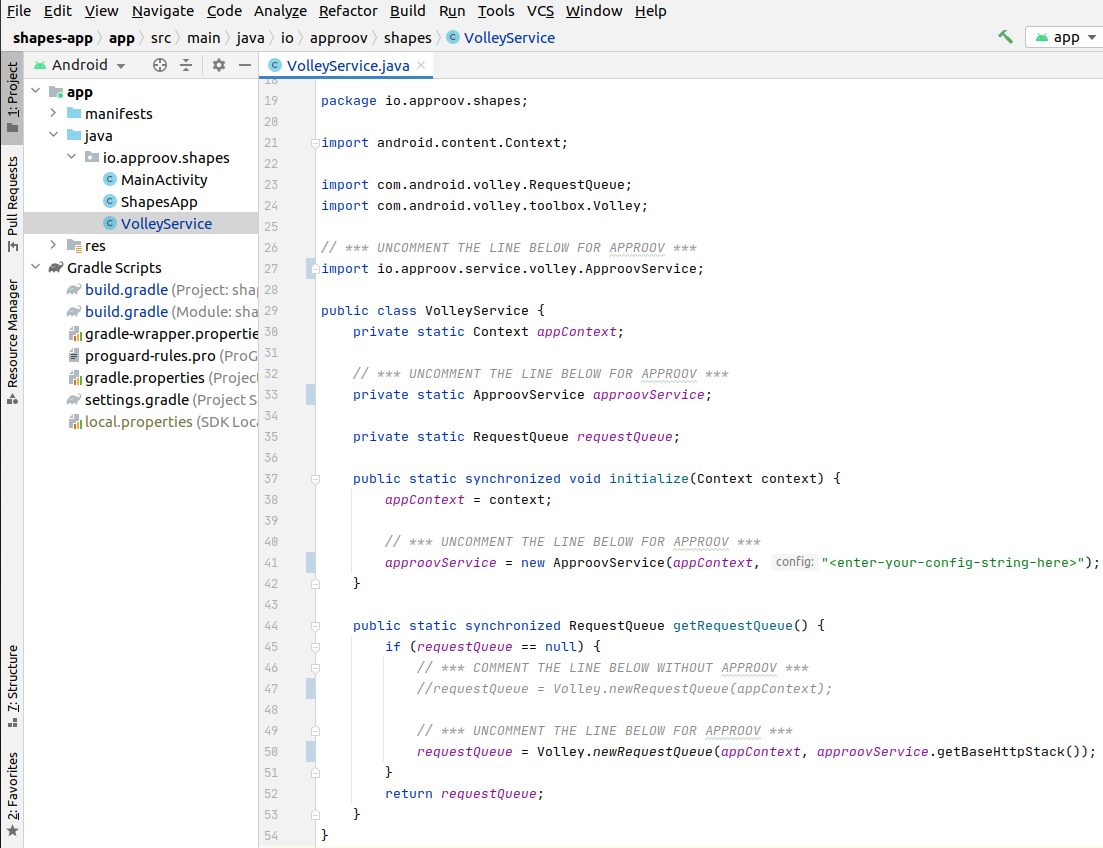
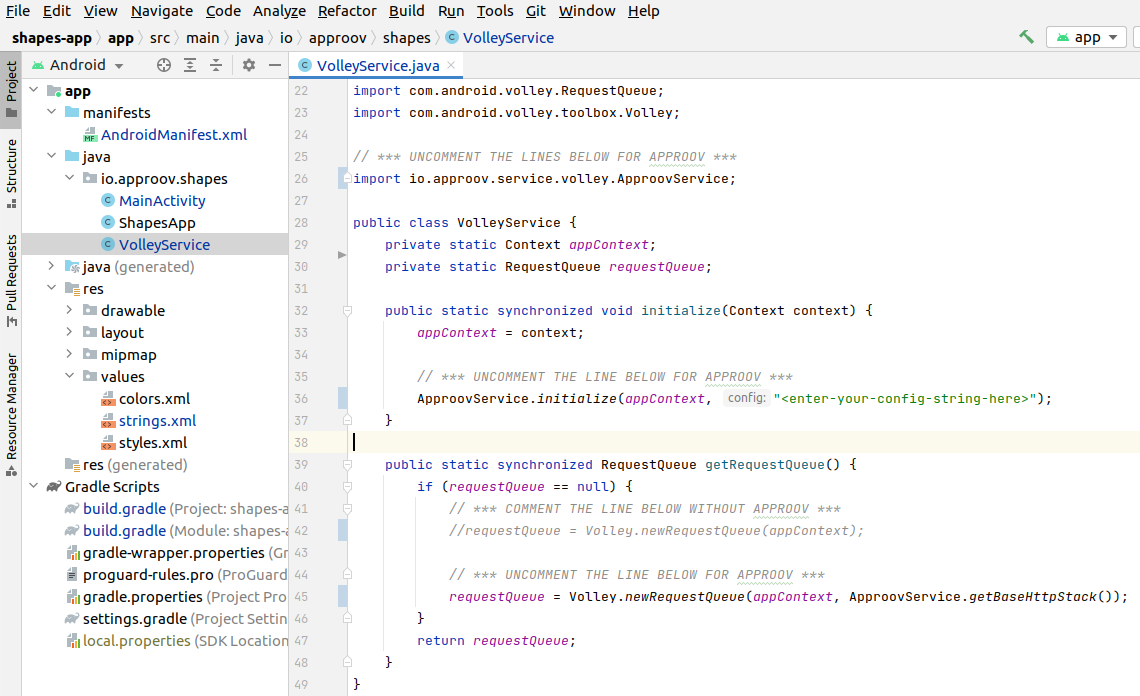
Move to static interface and add reference doc

diff --git a/shapes-app/app/src/main/java/io/approov/shapes/VolleyService.java b/shapes-app/app/src/main/java/io/approov/shapes/VolleyService.java
@@ -27,17 +27,13 @@ import com.android.volley.toolbox.Volley;
 
 public class VolleyService {
     private static Context appContext;
-
-    // *** UNCOMMENT THE LINE BELOW FOR APPROOV ***
-    //private static ApproovService approovService;
-
     private static RequestQueue requestQueue;
 
     public static synchronized void initialize(Context context) {
         appContext = context;
 
         // *** UNCOMMENT THE LINE BELOW FOR APPROOV ***
-        //approovService = new ApproovService(appContext, "<enter-your-config-string-here>");
+        //ApproovService.initialize(appContext, "<enter-your-config-string-here>");
     }
 
     public static synchronized RequestQueue getRequestQueue() {
@@ -46,7 +42,7 @@ public class VolleyService {
             requestQueue = Volley.newRequestQueue(appContext);
 
             // *** UNCOMMENT THE LINE BELOW FOR APPROOV ***
-            //requestQueue = Volley.newRequestQueue(appContext, approovService.getBaseHttpStack());
+            //requestQueue = Volley.newRequestQueue(appContext, ApproovService.getBaseHttpStack());
         }
         return requestQueue;
     }

diff --git a/shapes-app/app/src/main/java/io/approov/shapes/MainActivity.java b/shapes-app/app/src/main/java/io/approov/shapes/MainActivity.java
@@ -151,7 +151,7 @@ public class MainActivity extends Activity {
                         Map<String, String> headers = new HashMap<>();
                         headers.put("Api-Key", getResources().getString(R.string.shapes_api_key));
 
-                        // *** UNCOMMENT THE LINE BELOW FOR APPROOV USING SECURE STRINGS ***
+                        // *** UNCOMMENT THE LINE BELOW FOR APPROOV USING SECRET PROTECTION ***
                         //ApproovService.substituteHeader(headers, "Api-Key", null);
 
                         return headers;

diff --git a/REFERENCE.md b/REFERENCE.md
@@ -1,0 +1,145 @@
+# Reference
+This provides a reference for all of the static methods defined on `ApproovService`. These are available if you import:
+
+```Java
+import io.approov.service.volley.ApproovService;
+```
+
+Various methods may throw an `ApproovException` if there is a problem. The method `getMessage()` provides a descriptive message.
+
+If a method throws an `ApproovNetworkException` (a subclass of `ApproovException`) then this indicates the problem was caused by a networking issue, and a user initiated retry should be allowed.
+
+If a method throws an `ApproovRejectionException` (a subclass of `ApproovException`) the this indicates the problem was that the app failed attestation. An additional method `getARC()` provides the [Attestation Response Code](https://approov.io/docs/latest/approov-usage-documentation/#attestation-response-code), which could be provided to the user for communication with your app support to determine the reason for failure, without this being revealed to the end user. The method `getRejectionReasons()` provides the [Rejection Reasons](https://approov.io/docs/latest/approov-usage-documentation/#rejection-reasons) if the feature is enabled, providing a comma separated list of reasons why the app attestation was rejected.
+
+## Initialize
+Initializes the Approov SDK and thus enables the Approov features. The `config` will have been provided in the initial onboarding or email or can be [obtained](https://approov.io/docs/latest/approov-usage-documentation/#getting-the-initial-sdk-configuration) using the approov CLI. This will generate an error if a second attempt is made at initialization with a different `config`.
+
+```Java
+void initialize(Context context, String config)
+```
+
+The [application context](https://developer.android.com/reference/android/content/Context#getApplicationContext()) must be provided using the `context` parameter.
+
+## GetBaseHttpStack
+
+Provides the Approov enabled BaseHttpStack to be used for volley. This adds Approov tokens and pinning. Returns `null` if Approov has not been initialized.
+
+```Java
+BaseHttpStack getBaseHttpStack()
+```
+
+## SetProceedOnNetworkFail
+If the provided `proceed` value is `true` then this indicates that the network interceptor should proceed anyway if it is not possible to obtain an Approov token due to a networking failure. If this is called then the backend API can receive calls without the expected Approov token header being added, or without header/query parameter substitutions being made. This should only ever be used if there is some particular reason, perhaps due to local network conditions, that you believe that traffic to the Approov cloud service will be particularly problematic.
+
+```Java
+void setProceedOnNetworkFail(boolean proceed)
+```
+
+Note that this should be used with *CAUTION* because it may allow a connection to be established before any dynamic pins have been received via Approov, thus potentially opening the channel to a MitM.
+
+## SubstituteHeader
+Potentially substitutes a header value in the `headers` map supplied. This determines if the given `substitutionHeader` is present and, if so, looks at the present value and determines if it corresponds to a key of a secure string. If so then the header value is remapped to the secure string value. A `requiredPrefix` may be specified to deal with cases such as the use of "`Bearer `" prefixed before values in an authorization header. If the attestation fails for any reason then an `ApproovException` is thrown. Note that this function should only be called by a request `getHeaders` function that provides the ephemeral header values, as the output should not be cached. Note also that this method does not exclude substitutions made in any added excluded URLs.
+
+```Java
+void substituteHeader(Map<String, String> headers, String substitutionHeader, String requiredPrefix) throws ApproovException
+```
+
+## SubstituteQueryParameter
+Potentially substitutes a parameter value in the `params` map supplied. This determines if the given substitution `queryParam` is present and, if so, looks at the present value and determines if it corresponds to a key of a secure string. If so then the parameter value is remapped to the secure string value. If the attestation fails for any reason then an `ApproovException` is thrown. Note that this function should only be called by a request `getParams` function that provides the ephemeral params values, as the output should not be cached. Note also that this method does not exclude substitutions made in any added excluded URLs.
+
+```Java
+void substituteQueryParam(Map<String, String> params, String queryParam) throws ApproovException
+```
+
+## SubstituteQueryParamInURLString
+Substitutes the given `queryParameter` in the `url`. If no substitution is made then the original `url` is returned, otherwise a new one is constructed with the revised query parameter value. If there is a problem then `ApproovException` is thrown. S Note that this method does not exclude substitutions made in any added excluded URLs.
+
+```Java
+String substituteQueryParamInURLString(String url, String queryParameter) throws ApproovException
+```
+
+## AddExclusionURLRegex
+Adds an exclusion URL [regular expression](https://regex101.com/) via the `urlRegex` parameter. If a URL for a request matches this regular expression then it will not be subject to any Approov protection.
+
+```Java
+void addExclusionURLRegex(String urlRegex)
+```
+
+Note that this facility must be used with *EXTREME CAUTION* due to the impact of dynamic pinning. Pinning may be applied to all domains added using Approov, and updates to the pins are received when an Approov fetch is performed. If you exclude some URLs on domains that are protected with Approov, then these will be protected with Approov pins but without a path to update the pins until a URL is used that is not excluded. Thus you are responsible for ensuring that there is always a possibility of calling a non-excluded URL, or you should make an explicit call to fetchToken if there are persistent pinning failures. Conversely, use of those option may allow a connection to be established before any dynamic pins have been received via Approov, thus potentially opening the channel to a MitM.
+
+## RemoveExclusionURLRegex
+Removes an exclusion URL regular expression (`urlRegex`) previously added using `addExclusionURLRegex`.
+
+```Java
+void removeExclusionURLRegex(String urlRegex)
+```
+
+## Prefetch
+Performs a fetch to lower the effective latency of a subsequent token fetch or secure string fetch by starting the operation earlier so the subsequent fetch may be able to use cached data. This initiates the prefetch in a background thread.
+
+```Java
+void prefetch();
+```
+
+## Precheck
+Performs a precheck to determine if the app will pass attestation. This requires [secure strings](https://approov.io/docs/latest/approov-usage-documentation/#secure-strings) to be enabled for the account, although no strings need to be set up. 
+
+```Java
+void precheck() throws ApproovException;
+```
+
+This throws `ApproovException` if the precheck failed. This will likely require network access so may take some time to complete, and should not be called from the UI thread.
+
+## GetDeviceID
+Gets the [device ID](https://approov.io/docs/latest/approov-usage-documentation/#extracting-the-device-id) used by Approov to identify the particular device that the SDK is running on. Note that different Approov apps on the same device will return a different ID. Moreover, the ID may be changed by an uninstall and reinstall of the app.
+
+```Java
+String getDeviceID() throws ApproovException
+```
+
+This throws `ApproovException` if the there was a problem obtaining the device ID.
+
+## SetDataHashInToken
+Directly sets the [token binding](https://approov.io/docs/latest/approov-usage-documentation/#token-binding) hash to be included in subsequently fetched Approov tokens. If the hash is different from any previously set value then this will cause the next token fetch operation to fetch a new token with the correct payload data hash. The hash appears in the `pay` claim of the Approov token as a base64 encoded string of the SHA256 hash of the data. Note that the data is hashed locally and never sent to the Approov cloud service. This is an alternative to using `setBindingHeader` and you should not use both methods at the same time.
+
+```Java
+void setDataHashInToken(String data) throws ApproovException
+```
+
+This throws `ApproovException` if the there was a problem changing the data hash.
+
+## FetchToken
+Performs an Approov token fetch for the given `url`. This should be used in situations where it is not possible to use the networking interception to add the token. Note that the returned token should NEVER be cached by your app, you should call this function when it is needed.
+
+```Java
+String fetchToken(String url) throws ApproovException
+```
+
+This throws `ApproovException` if the there was a problem obtaining an Approov token. This may require network access so may take some time to complete, and should not be called from the UI thread.
+
+## GetMessageSignature
+Gets the [message signature](https://approov.io/docs/latest/approov-usage-documentation/#message-signing) for the given `message`. This is returned as a base64 encoded signature. This feature uses an account specific message signing key that is transmitted to the SDK after a successful fetch if the facility is enabled for the account. Note that if the attestation failed then the signing key provided is actually random so that the signature will be incorrect. An Approov token should always be included in the message being signed and sent alongside this signature to prevent replay attacks.
+
+```Java
+String getMessageSignature(String message) throws ApproovException
+```
+
+This throws `ApproovException` if the there was a problem obtaining a signature.
+
+## FetchSecureString
+Fetches a [secure string](https://approov.io/docs/latest/approov-usage-documentation/#secure-strings) with the given `key`, when `newDef` is `null`. If `newDef` is not `null` then a secure string for the particular app instance may be defined. In this case the new value is returned as the secure string. Use of an empty string for `newDef` removes the string entry. Note that the returned string should NEVER be cached by your app, you should call this function when it is needed.
+
+```Java
+String fetchSecureString(String key, String newDef) throws ApproovException
+```
+
+This throws `ApproovException` if the there was a problem obtaining the secure string. This may require network access so may take some time to complete, and should not be called from the UI thread.
+
+## FetchCustomJWT
+Fetches a [custom JWT](https://approov.io/docs/latest/approov-usage-documentation/#custom-jwts) with the given marshaled JSON `payload`.
+
+```Java
+String fetchCustomJWT(String payload) throws ApproovException
+```
+
+This throws `ApproovException` if the there was a problem obtaining the custom JWT. This may require network access so may take some time to complete, and should not be called from the UI thread.

diff --git a/SHAPES-EXAMPLE.md b/SHAPES-EXAMPLE.md
@@ -53,7 +53,7 @@ The `approov-service-volley` dependency needs to be added as follows to the `app
 Note that in this case the dependency has been added with the tag `main-SNAPSHOT`. However, for your projects we recommend you add a dependency to a specific version:
 
 ```
-implementation 'com.github.approov:approov-service-volley:3.0.3'
+implementation 'com.github.approov:approov-service-volley:3.0.4'
 ```
 
 Make sure you do a Gradle sync (by selecting `Sync Now` in the banner at the top of the modified `.gradle` file) after making these changes.
@@ -78,7 +78,7 @@ Uncomment the various lines needed to use Approov in `io/approov/shapes/VolleySe
 
 The `VolleyService` provides a singleton `RequestQueue` that is created on demand. This is a typical pattern for using `Volley`. The changes shown here cause the request queue to be constructed with a specialized `BaseHttpStack` that automatically adds Approov tokens to the requests and pins the connections to ensure that no Man-in-the-Middle can eavesdrop on any communication being made.
 
-The Approov SDK needs a configuration string to identify the account associated with the app. It will have been provided in the Approov onboarding email (it will be something like `#123456#K/XPlLtfcwnWkzv99Wj5VmAxo4CrU267J1KlQyoz8Qo=`). Copy this into `io/approov/shapes/VolleyService.java:41`, replacing the text `<enter-your-config-string-here>`.
+The Approov SDK needs a configuration string to identify the account associated with the app. It will have been provided in the Approov onboarding email (it will be something like `#123456#K/XPlLtfcwnWkzv99Wj5VmAxo4CrU267J1KlQyoz8Qo=`). Copy this into `io/approov/shapes/VolleyService.java`, replacing the text `<enter-your-config-string-here>`.
 
 You should also edit the `res/values/strings.xml` file to change to using the shapes `https://shapes.approov.io/v3/shapes/` endpoint that checks Approov tokens (as well as the API key built into the app):
 
@@ -114,14 +114,16 @@ This means that the app is getting a validly signed Approov token to present to 
 If you still don't get a valid shape then there are some things you can try. Remember this may be because the device you are using has some characteristics that cause rejection for the currently set [Security Policy](https://approov.io/docs/latest/approov-usage-documentation/#security-policies) on your account:
 
 * Ensure that the version of the app you are running is exactly the one you registered with Approov. Also, if you are running the app from a debugger then valid tokens are not issued.
-* Look at the [`logcat`](https://developer.android.com/studio/command-line/logcat) output from the device. Information about any Approov token fetched or an error is output at the `INFO` level, e.g. `2020-02-10 13:55:55.774 10442-10705/io.approov.shapes I/ApproovInterceptor: Approov Token for shapes.approov.io: {"did":"+uPpGUPeq8bOaPuh+apuGg==","exp":1581342999,"ip":"1.2.3.4","sip":"R-H_vE"}`. You can easily [check](https://approov.io/docs/latest/approov-usage-documentation/#loggable-tokens) the validity and find out any reason for a failure.
+* Look at the [`logcat`](https://developer.android.com/studio/command-line/logcat) output from the device. Information about any Approov token fetched or an error is output at the `DEBUG` level. You can easily [check](https://approov.io/docs/latest/approov-usage-documentation/#loggable-tokens) the validity and find out any reason for a failure.
 * Consider using an [Annotation Policy](https://approov.io/docs/latest/approov-usage-documentation/#annotation-policies) during initial development to directly see why the device is not being issued with a valid token.
 * Use `approov metrics` to see [Live Metrics](https://approov.io/docs/latest/approov-usage-documentation/#live-metrics) of the cause of failure.
 * You can use a debugger or emulator and get valid Approov tokens on a specific device by ensuring it [always passes](https://approov.io/docs/latest/approov-usage-documentation/#adding-a-device-security-policy). As a shortcut, when you are first setting up, you can add a [device security policy](https://approov.io/docs/latest/approov-usage-documentation/#adding-a-device-security-policy) using the `latest` shortcut as discussed so that the `device ID` doesn't need to be extracted from the logs or an Approov token.
 
 ## SHAPES APP WITH SECRET PROTECTION
 
-This section provides an illustration of an alternative option for Approov protection if you are not able to modify the backend to add an Approov Token check. Firstly, revert any previous change to `res/values/strings.xml` to using `https://shapes.approov.io/v1/shapes/` that simply checks for an API key. The `shapes_api_key` should also be changed to `shapes_api_key_placeholder`, removing the actual API key out of the code:
+This section provides an illustration of an alternative option for Approov protection if you are not able to modify the backend to add an Approov Token check. 
+
+Firstly, revert any previous change to `res/values/strings.xml` to using `https://shapes.approov.io/v1/shapes/` that simply checks for an API key. The `shapes_api_key` should also be changed to `shapes_api_key_placeholder`, removing the actual API key out of the code:
 
 ![Shapes V1 Endpoint](readme-images/shapes-v1-endpoint.png)
 

diff --git a/SECRET-PROTECTION.md b/SECRET-PROTECTION.md
@@ -73,7 +73,7 @@ This will analyze and modify `params` to replace the `<secret-placeholder>` with
 Note that you cannot use `getParams` for `GET` requests. To support this an alternative method for query parameter substitution is provided, to allow the original URL String to be modified. For instance, if you wish to substitute the parameter `<secret-param>` then you must call:
 
 ```Java
-url = approovService..substituteQueryParamInURLString(url, "<secret-param>");
+url = approovService.substituteQueryParamInURLString(url, "<secret-param>");
 ```
 
 If no substitution is made then the return value is the same as the input, otherwise a new URL is created with the substituted parameter value. The call should transform any instance of a URL such as `https://mydomain.com/endpoint?<secret-param>=<secret-placeholder>` into `https://mydomain.com/endpoint?<secret-param>=<secret-value>`, if the app passes attestation and there is a secure string with the name `<secret-placeholder>`. You will need to catch and deal with any `ApproovException` thrown by this call. Note that this should only ever be applied to a URL with a host domain that has been added to Approov, so that either pinning or managed trust roots protection is being applied.
@@ -93,7 +93,7 @@ Note, on Windows you need to substitute \ for / in the above command.
 ## HANDLING REJECTIONS
 If the app is not recognized as being valid by Approov then an `ApproovRejectionException` is thrown on the request and the API call is not completed. The secret value will never be communicated to the app in this case.
 
-Your app should specifically catch this exception and provide some feedback to the user to explain why the app is not working. The `ApproovRejectionException` has a `geARC()` method which provides an [Attestation Response Code](https://approov.io/docs/latest/approov-usage-documentation/#attestation-response-code) which can provide more information about the status of the device, without revealing any details to the end user.
+Your app should specifically catch this exception and provide some feedback to the user to explain why the app is not working. The `ApproovRejectionException` has a `getARC()` method which provides an [Attestation Response Code](https://approov.io/docs/latest/approov-usage-documentation/#attestation-response-code) which can provide more information about the status of the device, without revealing any details to the end user.
 
 If you wish to provide more direct feedback then enable the [Rejection Reasons](https://approov.io/docs/latest/approov-usage-documentation/#rejection-reasons) feature:
 
@@ -108,8 +108,6 @@ You will then be able to use `getRejectionReasons()` on an `ApproovRejectionExce
 ## FURTHER OPTIONS
 
 See [Getting Started With Approov](https://approov.io/docs/latest/approov-usage-documentation/#getting-started-with-approov) for information about additional Approov features you may wish to try.
-
-The quickstart also provides the following additional methods:
 
 ### Header Prefixes
 In some cases the value to be substituted on a header may be prefixed by some fixed string. A common case is the presence of `Bearer` included in an authorization header to indicate the use of a bearer token. In this case you can specify a prefix as follows, assuming `headers` holds the current header map:
@@ -138,7 +136,7 @@ String newDef;
 String secret;
 // define key and newDef here
 try {
-    secret = YourApp.approovService.fetchSecureString(key, newDef);
+    secret = ApproovService.fetchSecureString(key, newDef);
 }
 catch(ApproovRejectionException e) {
     // failure due to the attestation being rejected, e.getARC() and e.getRejectionReasons() may be used to present information to the user
@@ -161,7 +159,7 @@ This method is also useful for providing runtime secrets protection when the val
 If you wish to reduce the latency associated with substituting the first secret, then make this call immediately after creating `ApproovService`:
 
 ```Java
-YourApp.approovService.prefetch()
+ApproovService.prefetch();
 ```
 
 This initiates the process of fetching the required information as a background task, so that it is available immediately when subsequently needed. Note the information will automatically expire after approximately 5 minutes.
@@ -177,7 +175,7 @@ import io.approov.service.volley.ApproovRejectionException;
 ...
 
 try {
-    YourApp.approovService.precheck();
+    ApproovService.precheck();
 }
 catch(ApproovRejectionException e) {
     // failure due to the attestation being rejected, e.getARC() and e.getRejectionReasons() may be used to present information to the user
@@ -187,7 +185,7 @@ catch(ApproovNetworkException e) {
     // failure due to a potentially temporary networking issue, allow for a user initiated retry
 }
 catch(ApproovException e) {
-   // a more permanent error, see e.message
+   // a more permanent error, see e.getMessage()
 }
 // app has passed the precheck
 ```

diff --git a/README.md b/README.md
@@ -24,7 +24,7 @@ Secondly, add the dependency in your app's `build.gradle`:
 
 ```
 dependencies {
-	 implementation 'com.github.approov:approov-service-volley:3.0.3'
+	 implementation 'com.github.approov:approov-service-volley:3.0.4'
 }
 ```
 Make sure you do a Gradle sync (by selecting `Sync Now` in the banner at the top of the modified `.gradle` file) after making these changes.
@@ -41,7 +41,7 @@ The following app permissions need to be available in the manifest to use Approo
 
 Note that the minimum SDK version you can use with the Approov package is 21 (Android 5.0). 
 
-Please [read this](https://approov.io/docs/latest/approov-usage-documentation/#targetting-android-11-and-above) section of the reference documentation if targetting Android 11 (API level 30) or above.
+Please [read this](https://approov.io/docs/latest/approov-usage-documentation/#targeting-android-11-and-above) section of the reference documentation if targeting Android 11 (API level 30) or above.
 
 ## INITIALIZING APPROOV SERVICE
 In order to use the `ApproovService` you should create a `VolleyService` class:
@@ -51,17 +51,16 @@ import io.approov.service.volley.ApproovService;
 
 public class VolleyService {
     private static Context appContext;
-    private static ApproovService approovService;
     private static RequestQueue requestQueue;
 
     public static synchronized void initialize(Context context) {
         appContext = context;
-        approovService = new ApproovService(appContext, "<enter-your-config-string-here>")
+        ApproovService.initialize(appContext, "<enter-your-config-string-here>")
     }
 
     public static synchronized RequestQueue getRequestQueue() {
         if (requestQueue == null) {
-            requestQueue = Volley.newRequestQueue(appContext, approovService.getBaseHttpStack());
+            requestQueue = Volley.newRequestQueue(appContext, ApproovService.getBaseHttpStack());
         }
         return requestQueue;
     }
@@ -74,8 +73,6 @@ You must initialize this when your app is created, usually in the `onCreate` met
 
 ```Java
 public class YourApp extends Application {
-    public static ApproovService approovService;
-
     @Override
     public void onCreate() {
         super.onCreate();
@@ -109,3 +106,5 @@ To actually protect your APIs there are some further steps. Approov provides two
 * [SECRET PROTECTION](https://github.com/approov/quickstart-android-java-volley/blob/master/SECRET-PROTECTION.md): If you do not control the backend API(s) being protected, and are therefore unable to modify it to check Approov tokens, you can use this approach instead. It allows app secrets, and API keys, to be protected so that they no longer need to be included in the built code and are only made available to passing apps at runtime.
 
 Note that it is possible to use both approaches side-by-side in the same app, in case your app uses a mixture of 1st and 3rd party APIs.
+
+See [REFERENCE](https://github.com/approov/quickstart-android-java-volley/blob/master/REFERENCE.md) for a complete list of all of the `ApproovService` methods.

diff --git a/TOKEN-PROTECTION.md b/TOKEN-PROTECTION.md
@@ -29,13 +29,11 @@ Note, on Windows you need to substitute \ for / in the above command.
 
 See [Getting Started With Approov](https://approov.io/docs/latest/approov-usage-documentation/#getting-started-with-approov) for information about additional Approov features you may wish to try.
 
-The quickstart also provides the following additional methods:
-
 ### Changing Approov Token Header Name
 The default header name of `Approov-Token` can be changed as follows:
 
 ```Java
-YourApp.approovService.setApproovHeader("Authorization", "Bearer ")
+ApproovService.setApproovHeader("Authorization", "Bearer ");
 ```
 
 The first parameter is the new header name and the second a prefix to be added to the Approov token. This is primarily for integrations where the Approov Token JWT might need to be prefixed with `Bearer` and passed in the `Authorization` header.
@@ -44,7 +42,7 @@ The first parameter is the new header name and the second a prefix to be added t
 If want to use [Token Binding](https://approov.io/docs/latest/approov-usage-documentation/#token-binding) then set the header holding the value to be used for binding as follows:
 
 ```Java
-YourApp.approovService.setBindingHeader("Authorization")
+ApproovService.setBindingHeader("Authorization");
 ```
 
 In this case it means that the value of `Authorization` holds the token value to be bound. This only needs to be called once. On subsequent requests the value of the specified header is read and its value set as the token binding value. Note that you should select a header whose value does not typically change from request to request, as each change requires a new Approov token to be fetched.
@@ -53,7 +51,7 @@ In this case it means that the value of `Authorization` holds the token value to
 If you wish to reduce the latency associated with fetching the first Approov token, then make this call immediately after creating `ApproovService`:
 
 ```Java
-YourApp.approovService.prefetch()
+ApproovService.prefetch();
 ```
 
 This initiates the process of fetching an Approov token as a background task, so that a cached token is available immediately when subsequently needed, or at least the fetch time is reduced. Note that there is no point in performing a prefetch if you are using token binding.
@@ -77,7 +75,7 @@ import io.approov.service.volley.ApproovRejectionException;
 ...
 
 try {
-    YourApp.approovService.precheck();
+    ApproovService.precheck();
 }
 catch(ApproovRejectionException e) {
     // failure due to the attestation being rejected, e.getARC() and e.getRejectionReasons() may be used to present information to the user
@@ -87,7 +85,7 @@ catch(ApproovNetworkException e) {
     // failure due to a potentially temporary networking issue, allow for a user initiated retry
 }
 catch(ApproovException e) {
-   // a more permanent error, see e.message
+   // a more permanent error, see e.getMessage()
 }
 // app has passed the precheck
 ```
